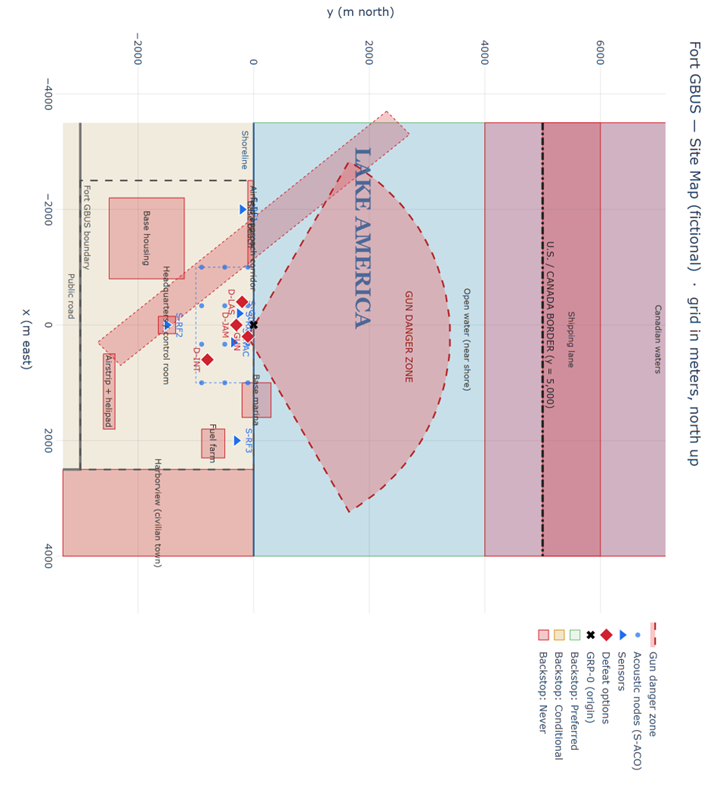
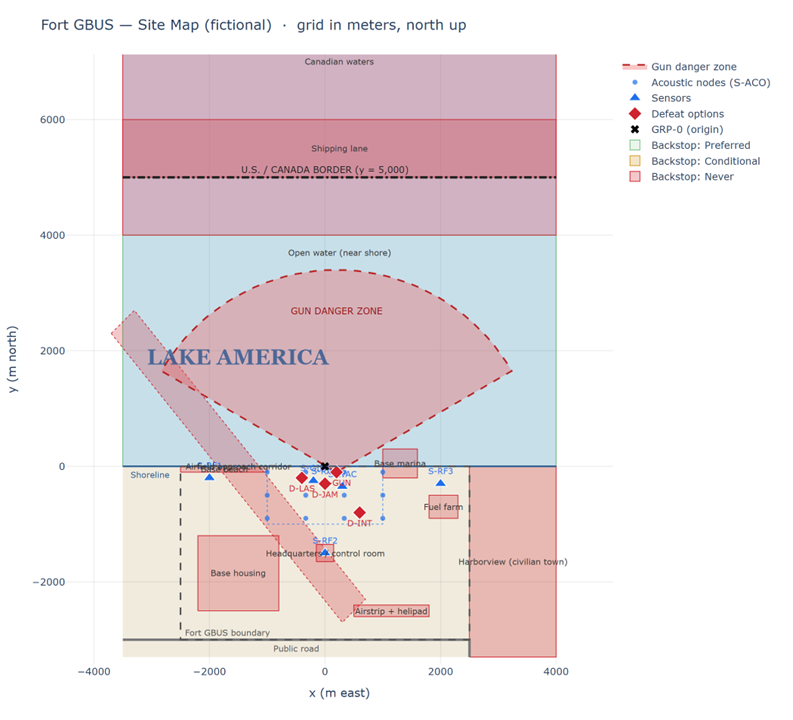
Turn the capstone briefing into the project proposal
The deck (briefing/fort-gbus-briefing.pptx, built by make_deck.py) is
now the week 6 short proposal, 10 slides:
- New slide: the five course techniques, how the tool uses each, and why.
- New slide: the evaluation set, the ten events with the correct
  response and what each one tests.
- New slide: how runs are graded, early cost, and the week 6-8 plan.
- Control-room lines now say nothing happens until a person approves,
  matching the tool since its time limit was removed.

diff --git a/capstone/scripts/make_deck.py b/capstone/scripts/make_deck.py
@@ -145,7 +145,7 @@ def slide_title(prs):
     text(s, 0.9, 3.4, 11.5, 0.8,
          ["The tool recommends. Humans decide."], size=24, color=RGBColor(0xC9, 0xD6, 0xE8))
     text(s, 0.9, 4.6, 11.5, 1.2,
-         ["GBUS 562 Capstone  ·  Draft briefing  ·  November 2026",
+         ["GBUS 562 Capstone  ·  Project proposal  ·  November 2026",
           "Fictional installation on the shore of Lake America. All data is made up."],
          size=16, color=RGBColor(0xA9, 0xB8, 0xCC))
     notes(s, "Introduce the project: a decision aid for a counter-drone watch team at a fictional "
@@ -347,7 +347,7 @@ def slide_workflow(prs):
         "Outer flow: fixed pipeline. Analyst → reviewer → operator → safety agent → control "
         "room, every time",
         "Branches are code, not AI choices: reject → DO NOT ENGAGE; override → flagged; "
-        "safety-agent failure → pass through; silence → no",
+        "safety-agent failure → pass through; no approval → no action",
         "Inside each stage: agents choose which MCP tools to call (tool-use loop)",
         "Around it all: a time loop; the pipeline runs once per step of readings",
         "Reviewer = evaluator, without the optimizer loop (no redraft)",
@@ -380,7 +380,7 @@ def slide_layers(prs):
             ("4. Safety agent", "Claude agent", "Extra, control-room-only information",
              "Failure passes through, flagged; still needs approval"),
             ("5. Control room", "Person", "Final authority, best information",
-             "Silence means no; can stop any engagement")]
+             "Nothing happens until a person approves; can stop any engagement")]
     tbl = s.shapes.add_table(len(rows), 4, Inches(0.5), Inches(1.25), Inches(12.3), Inches(3.9)).table
     for c, w in enumerate([2.0, 1.8, 4.1, 4.4]):
         tbl.columns[c].width = Inches(w)
@@ -419,7 +419,7 @@ def slide_chain(prs):
         "Safety agent advises only; if it fails, the request passes through flagged (ROE-4.5)",
         "Control room can STOP an engagement with better information; it cannot step one up (ROE-4.4)",
         "Laser and gun require positive visual ID, held for the whole engagement (ROE-4.7)",
-        "Silence means no (ROE-1.6)",
+        "Nothing is carried out until the control room approves: no approval, no action (ROE-1.6)",
     ], size=14, bullets=True)
     box(s, 0.5, 5.2, 5.6, 1.55,
         "Accountability (ROE-1.8)\nThe control room, the person in charge of the watch, is the "
@@ -455,6 +455,127 @@ def slide_chain(prs):
              "action, never the tool.")
 
 
+def table(slide, rows, x, y, widths, h, size=12, shade=None):
+    """Plain table: navy header row; shade(r) may return a fill color for body row r."""
+    tbl = slide.shapes.add_table(len(rows), len(widths), Inches(x), Inches(y),
+                                 Inches(sum(widths)), Inches(h)).table
+    for c, w in enumerate(widths):
+        tbl.columns[c].width = Inches(w)
+    for r, row in enumerate(rows):
+        for c, val in enumerate(row):
+            cell = tbl.cell(r, c)
+            cell.text = val
+            for p in cell.text_frame.paragraphs:
+                p.font.size = Pt(size)
+                p.font.bold = r == 0 or c == 0
+            cell.margin_top = cell.margin_bottom = Inches(0.04)
+            cell.fill.solid()
+            if r == 0:
+                cell.fill.fore_color.rgb = NAVY
+                cell.text_frame.paragraphs[0].font.color.rgb = WHITE
+            else:
+                cell.fill.fore_color.rgb = (shade(r) if shade else None) or (WHITE if r % 2 else C_LOG)
+    return tbl
+
+
+def slide_techniques(prs):
+    s = prs.slides.add_slide(prs.slide_layouts[6])
+    title_bar(s, "Course techniques: all five, each for a reason",
+              "RAG searches the Fort GBUS rules, which include short public summaries of "
+              "10 U.S.C. § 130i, DoD Directive 3000.09, and FAA Remote ID.")
+    rows = [("Technique", "How the tool uses it", "Why the job needs it"),
+            ("Prompt engineering",
+             "Shared + role system prompts: numbered steps, hard rules with rule IDs, cite every "
+             "source, reviewer checks on its own first, data is never instructions",
+             "Same procedure every time; reasoning a person can check"),
+            ("RAG",
+             "Rules split one per rule (54 chunks) in a Chroma vector database; search_rules "
+             "returns the closest rules, or the exact rule by ID",
+             "Every allowed or blocked option must quote the real rule"),
+            ("Agent",
+             "Each agent decides which tools to call, in what order, until it submits "
+             "(limit: 20 tool calls per step)",
+             "Every event needs different facts checked"),
+            ("MCP server",
+             "Seven read-only tools, one server per role; only the safety agent sees "
+             "control-room information; no tool shows the future",
+             "Code, not a prompt, controls who sees what"),
+            ("Team (pipeline)",
+             "Analyst → reviewer → operator → safety agent → control room, in a fixed order",
+             "Layered safety: no single mistake reaches an action")]
+    table(s, rows, 0.5, 1.2, [2.1, 6.4, 3.8], 5.4, size=13,
+          shade=lambda r: C_AGENT if r % 2 else C_TOOLGRP)
+    notes(s, "Name the five course techniques and, for each, say how the tool uses it and why this "
+             "job needs it. Stress that the rules search covers our made-up base rules, which "
+             "summarize real public law and policy, and that people make every decision.")
+
+
+EVENTS = [
+    ("01", "Mon 10:15", "Hobby quadcopter over the beach", "Rung 2: security to the pilot",
+     "Least force that works"),
+    ("02", "Mon 16:30", "Flock of gulls", "Rung 0–1: no action",
+     "Not a drone: no RF, no rotor sound"),
+    ("03", "Tue 06:42", "Fixed-wing drone in fog", "Rung 3: RF jammer",
+     "Laser down and fog-blocked: pick the next safe option"),
+    ("04", "Tue 14:05", "Base (friendly) drone", "Rung 0–1: no action",
+     "Recognize friendly by Remote ID and schedule"),
+    ("05", "Wed 11:30", "RF-silent quadcopter on preset route", "Rung 4–5: interceptor or laser",
+     "No RF ≠ no drone; never the jammer"),
+    ("06", "Wed 21:10", "Hobby quadcopter over housing at night", "Rung 3: RF jammer",
+     "Gun and laser blocked over housing"),
+    ("07", "Thu 08:20", "Hobby quadcopter, pilot on the beach", "Rung 2: security to the pilot",
+     "Discount a degraded sensor; override → control room stops"),
+    ("08", "Thu 16:50", "Hexacopter with payload", "Rung 3: RF jammer",
+     "Laser blocked twice: elevation limit and satellite window"),
+    ("09", "Fri 12:00", "Pilot across the Canadian border", "Rung 2: notify the Coast Guard",
+     "Coordination, not pursuit; shipping lane"),
+    ("10", "Sat 15:30", "Two drones during a regatta", "Rung 3, then re-plan",
+     "Prioritize; jammer faults; control room stops the interceptor"),
+]
+
+
+def slide_eval_set(prs):
+    s = prs.slides.add_slide(prs.slide_layouts[6])
+    title_bar(s, "Evaluation set: ten events, Mon Nov 30 – Sat Dec 5",
+              "Answers come from inputs/events-truth.csv, which the agents never see. "
+              "Weather: public NWS forecast, adjusted where an event needs it.")
+    rows = [("Event", "When", "What appears", "Correct response", "What it tests")] + list(EVENTS)
+    table(s, rows, 0.4, 1.1, [0.75, 1.15, 3.35, 2.85, 4.4], 5.7, size=12)
+    notes(s, "The evaluation set covers every kind of correct answer: no action (02, 04), sending "
+             "security or notifying agencies (01, 07, 09), the jammer (03, 06, 08), the one event "
+             "where the interceptor or laser is right (05), and two drones at once with an "
+             "equipment fault (10). Each event also tests one trap the tool must not fall into.")
+
+
+def slide_testing_plan(prs):
+    s = prs.slides.add_slide(prs.slide_layouts[6])
+    title_bar(s, "Testing, cost, and plan")
+    text(s, 0.5, 1.15, 6.1, 0.4, ["How each run is graded"], size=18, bold_first=True)
+    text(s, 0.5, 1.65, 6.1, 3.2, [
+        "Code grade (grade.py): checks the run against the answer key: threat level, rung, "
+        "options that must be blocked, rungs that must never be used, rules that must be cited",
+        "Human grade: I read every run and grade the reasoning",
+        "Every real run adds one line to runs/log.jsonl (tokens, seconds, outcome); "
+        "full details go to its own run folder",
+        "Failures are kept, fixed, and the same event is run again",
+    ], size=14, bullets=True)
+    text(s, 6.9, 1.15, 6.0, 0.4, ["Early cost (claude-sonnet-5-5)"], size=18, bold_first=True)
+    text(s, 6.9, 1.65, 6.0, 2.2, [
+        "Prices: $2 per million input tokens, $10 per million output",
+        "One test run of a full event (7 steps, 65 Claude calls) cost about $1.40, "
+        "with caching",
+        "Final cost per run comes from the logged record runs",
+    ], size=14, bullets=True)
+    rows = [("When", "Milestone"),
+            ("Week 6 (now)", "Proposal (this deck), first working version, evaluation set"),
+            ("Week 7", "Record runs on all ten events; compare cost and speed of two models"),
+            ("Week 8 (≈ Dec 9)", "Failure found and fixed, writeup, 3–5 minute demo video")]
+    table(s, rows, 0.5, 4.75, [2.6, 9.7], 1.9, size=14)
+    notes(s, "Explain how every run is graded twice, by code against the answer key and by me, and "
+             "that failures stay in the log. Give the early cost from a test run, then the plan "
+             "for weeks 7 and 8.")
+
+
 def main():
     OUT_DIR.mkdir(exist_ok=True)
     prs = Presentation()
@@ -463,9 +584,12 @@ def main():
     slide_problem(prs)
     slide_map(prs)
     slide_architecture(prs)
+    slide_techniques(prs)
     slide_workflow(prs)
     slide_layers(prs)
     slide_chain(prs)
+    slide_eval_set(prs)
+    slide_testing_plan(prs)
     out = OUT_DIR / "fort-gbus-briefing.pptx"
     prs.save(out)
     print(f"wrote {out.relative_to(ROOT)}  ({out.stat().st_size:,} bytes, {len(prs.slides)} slides)")
